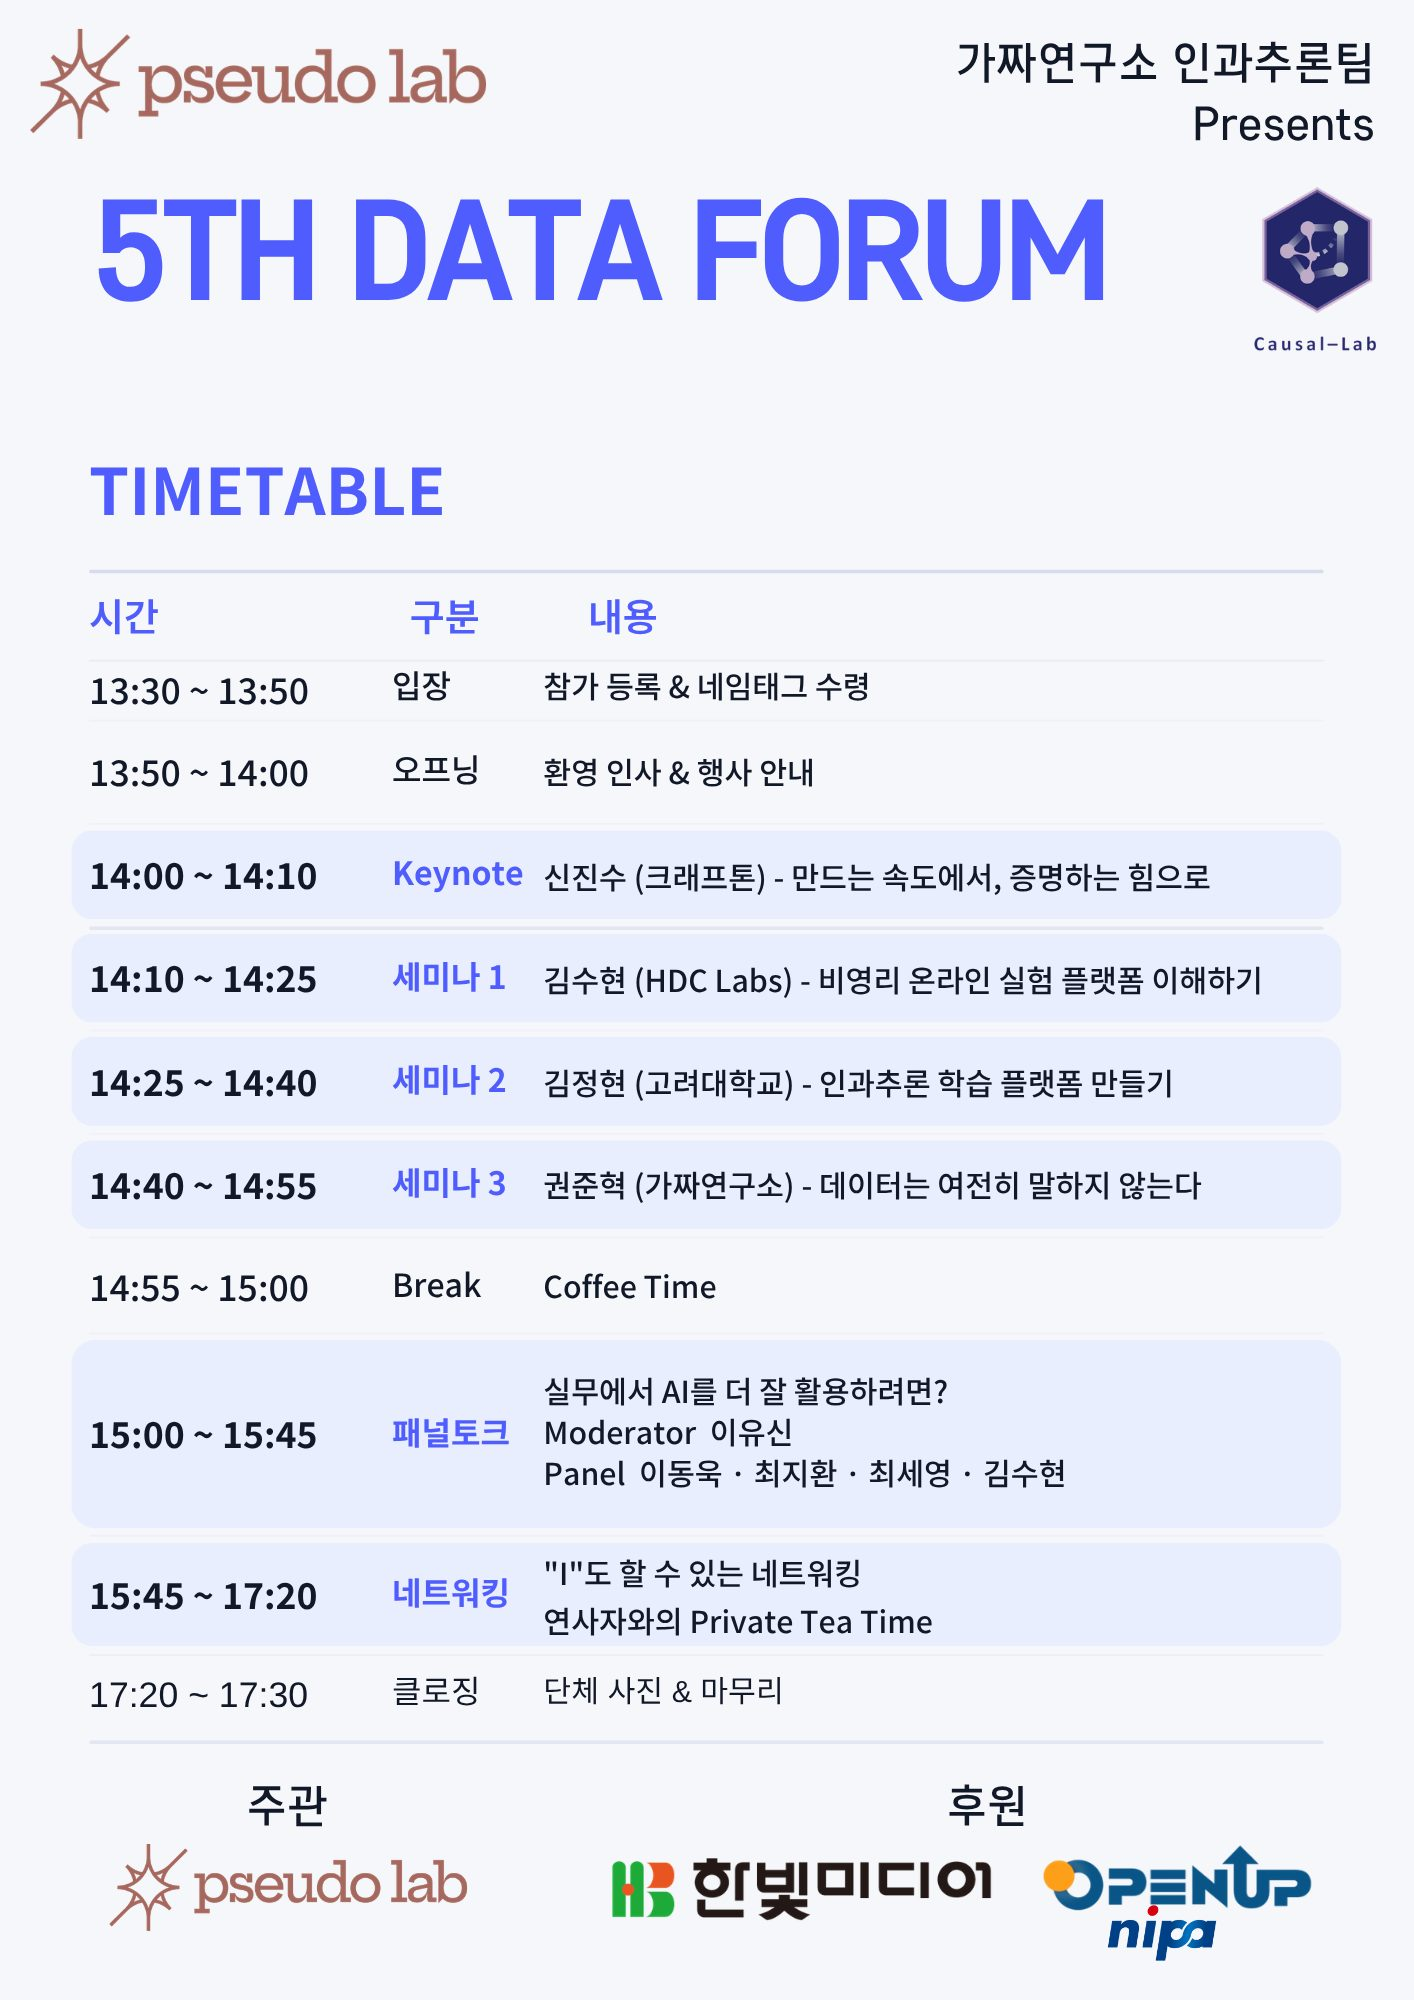
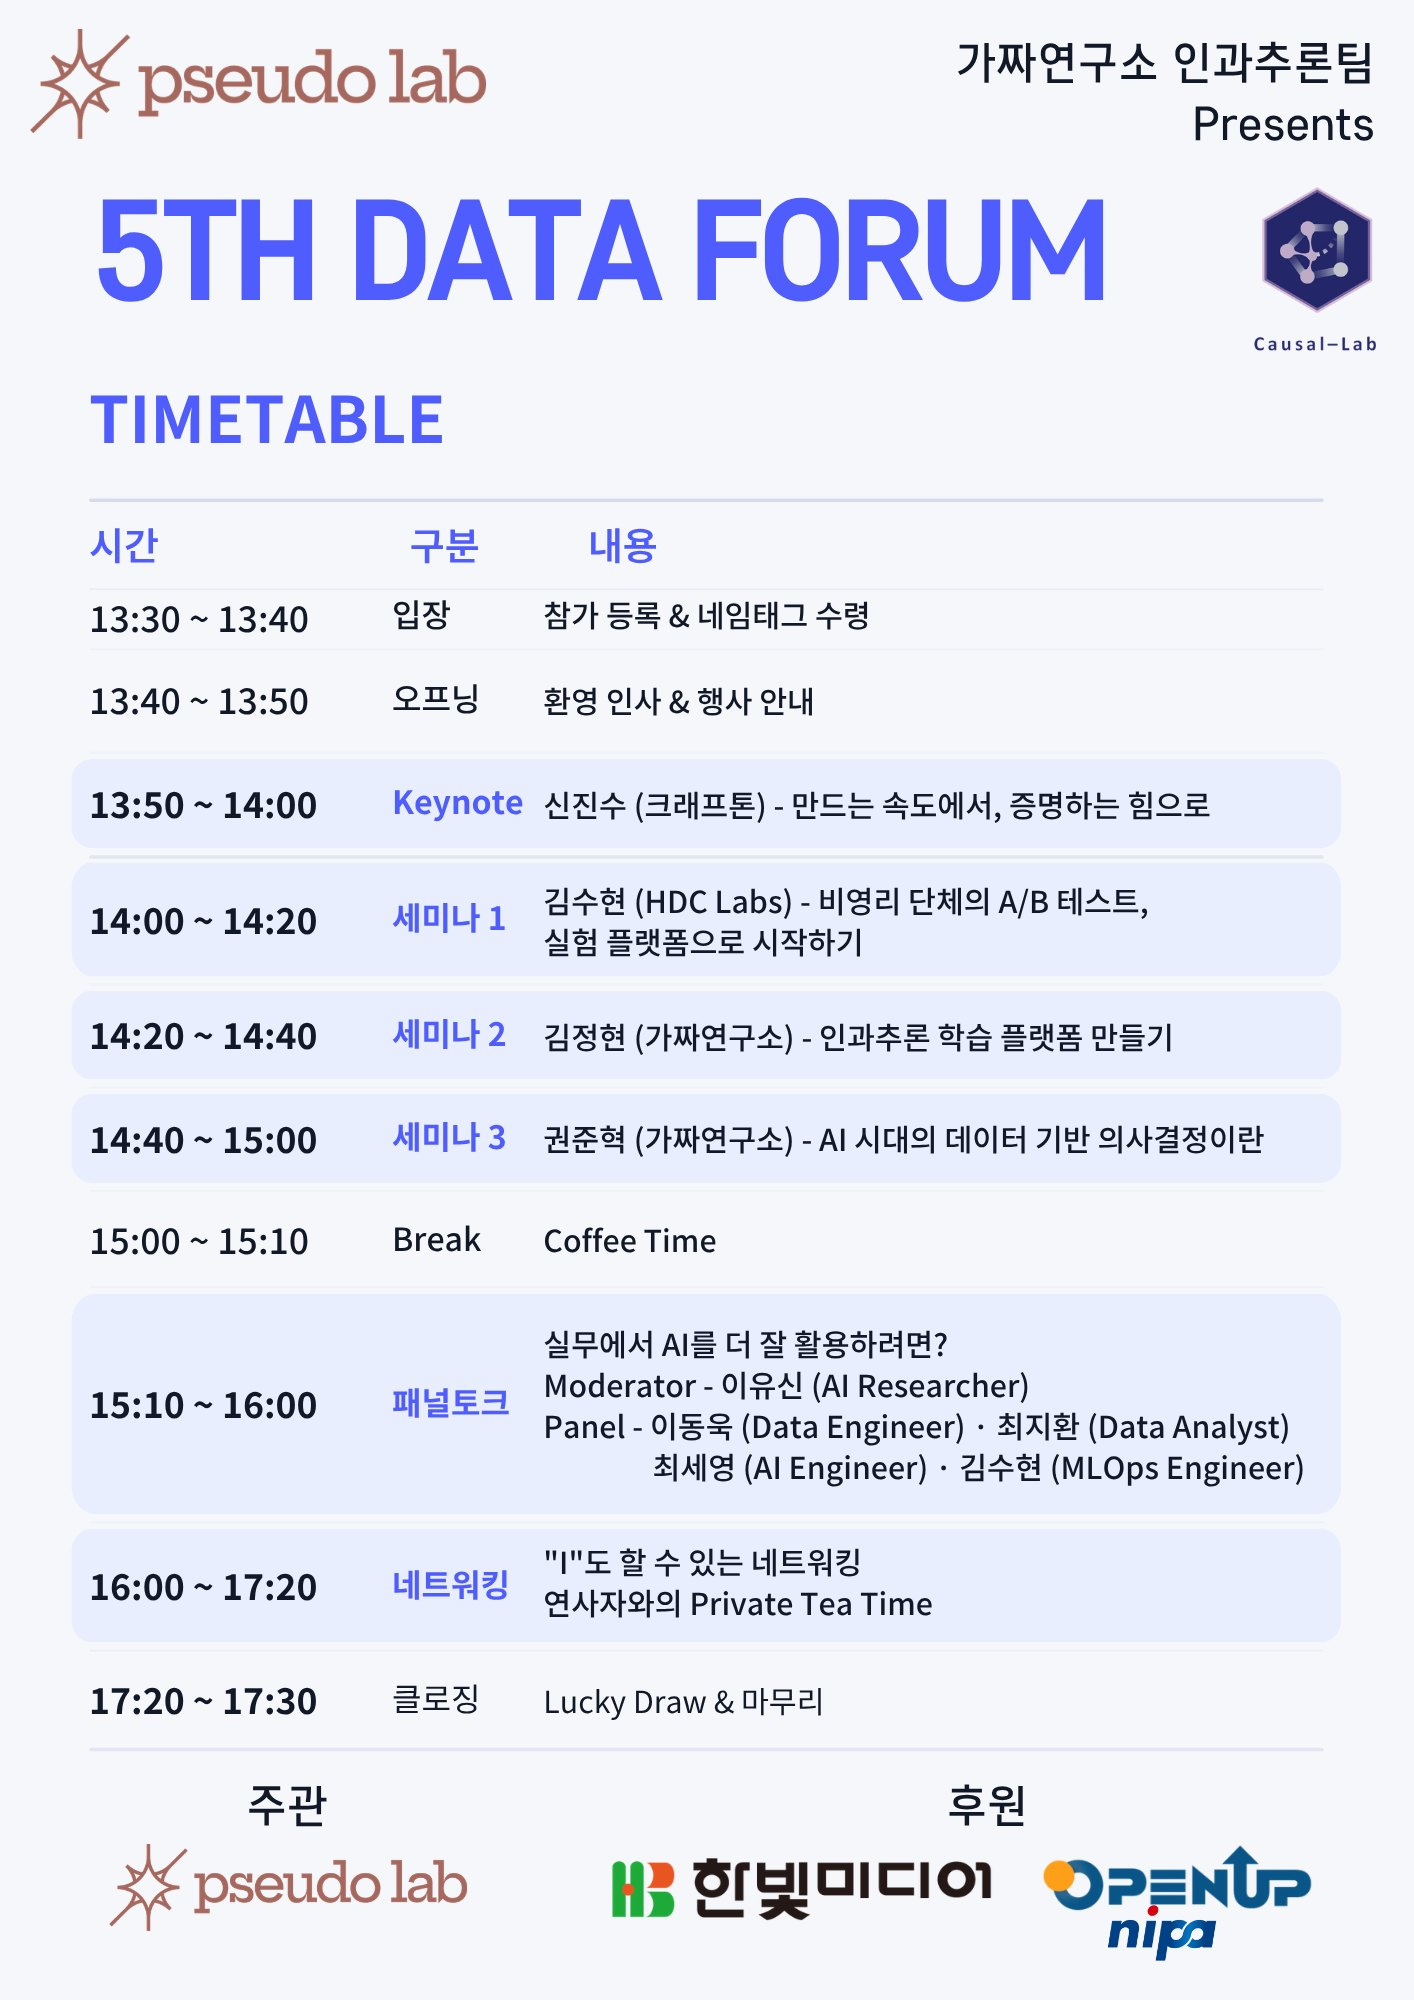
Update the 5th Data Forum details and show the poster and timetable in a viewer
Sign-up now runs 10/31-11/15, the address and timetable follow the final
posters, and both poster images are replaced.

The card shows the poster at 300px on desktop and full width on phones
(it was hidden there), with a switch to the timetable image. Clicking
either opens it in an in-page viewer with a link to the original file.
The text timetable starts open; reopening it is still counted, opening
by default is not.

diff --git a/assets/js/hub.js b/assets/js/hub.js
@@ -1149,10 +1149,17 @@
       next.signupStart ? ["신청", `${md(next.signupStart)} – ${next.signupEnd ? md(next.signupEnd) : ""}${next.capacity ? ` · 선착순 ${next.capacity}명` : ""}`] : null,
       next.audience ? ["대상", esc(next.audience)] : null
     ].filter(Boolean) : [];
-    const tt = next && (next.timetable || []).length ? `<details class="ev-tt" data-event-fold><summary>타임테이블<span>${esc(next.timetable[0].time.split("–")[0])}–${esc(next.timetable[next.timetable.length - 1].time.split("–")[1] || "")}</span></summary>
+    const tt = next && (next.timetable || []).length ? `<details class="ev-tt" data-event-fold open><summary>타임테이블<span>${esc(next.timetable[0].time.split("–")[0])}–${esc(next.timetable[next.timetable.length - 1].time.split("–")[1] || "")}</span></summary>
         <ol>${next.timetable.map((r) => `<li class="${r.talk ? "talk" : ""}"><span class="t">${esc(r.time)}</span><span class="k">${esc(r.kind)}</span><span class="w"><b>${esc(r.title)}</b>${r.who ? `<span>${speakerHTML(r.who)}</span>` : ""}</span></li>`).join("")}</ol>
-        ${next.timetableImage ? `<a class="ev-img-link" href="${esc(next.timetableImage)}" target="_blank" rel="noopener">타임테이블 이미지로 보기<span aria-hidden="true"> ↗</span></a>` : ""}</details>` : "";
-    const nextHTML = next ? `<li class="event next${next.poster ? " has-poster" : ""}">
+        </details>` : "";
+    /* the poster and the timetable image share one viewer: a thumbnail to switch, a full-screen view to read */
+    const imgs = next ? [next.poster && { src: next.poster, label: "포스터", action: "poster" }, next.timetableImage && { src: next.timetableImage, label: "타임테이블", action: "timetable_image" }].filter(Boolean).map((m) => ({ ...m, alt: `${eventTitle(next)} ${m.label}: ${dot(next.date)} ${next.venue || ""}` })) : [];
+    state.evImgs = { imgs, order: next ? next.order : null };
+    const gallery = imgs.length ? `<div class="ev-gallery">
+        ${imgs.length > 1 ? `<div class="ev-gtabs" role="group" aria-label="행사 이미지">${imgs.map((m, i) => `<button type="button" data-ev-pick="${i}" aria-pressed="${i === 0}">${esc(m.label)}</button>`).join("")}</div>` : ""}
+        <button type="button" class="ev-poster" data-ev-zoom="0"><img src="${esc(imgs[0].src)}" alt="${esc(imgs[0].alt)}" width="1414" height="2000" loading="lazy"><span>눌러서 크게 보기</span></button>
+      </div>` : "";
+    const nextHTML = next ? `<li class="event next${imgs.length ? " has-poster" : ""}">
         <div class="ev-main">
           <span class="soon-tag">다음 행사${dd != null && dd >= 0 ? ` · ${dd === 0 ? "오늘" : `D-${dd}`}` : ""}</span>
           <h3>${next.link ? `<a href="${esc(next.link)}" target="_blank" rel="noopener" data-event="click_event" data-event-params='${esc(JSON.stringify({ event_order: next.order, action: su.action || "event_page", placement: "title" }))}'>${esc(eventTitle(next))}</a>` : esc(eventTitle(next))}</h3>
@@ -1160,10 +1167,10 @@
           <dl class="ev-facts">${facts.map(([k, v]) => `<div><dt>${k}</dt><dd>${v}</dd></div>`).join("")}</dl>
           ${next.code ? `<div class="ev-code"><p><b>${esc(next.code.label)}</b></p><ol>${next.code.steps.map((x) => `<li>${esc(x)}</li>`).join("")}</ol></div>` : ""}
           <p class="ev-state ${su.state}">${esc({ soon: `신청은 ${next.signupStart ? md(next.signupStart) : ""}에 열립니다. 지금은 행사 페이지에서 내용을 볼 수 있습니다.`, open: `지금 신청을 받고 있습니다${next.capacity ? `. 선착순 ${next.capacity}명이라 일찍 마감될 수 있습니다` : ""}.`, closed: "신청이 마감되었습니다.", none: "신청 링크는 곧 열립니다." }[su.state])}</p>
-          <div class="ev-acts">${go("button")}${next.poster ? `<a class="btn ghost sm ev-poster-btn" href="${esc(next.poster)}" target="_blank" rel="noopener" data-event="click_event" data-event-params='${esc(JSON.stringify({ event_order: next.order, action: "poster", placement: "card" }))}'>포스터 보기</a>` : ""}</div>
+          <div class="ev-acts">${go("button")}</div>
           ${next.host || (next.sponsors || []).length ? `<p class="ev-org">${next.host ? `주관 ${esc(next.host)}` : ""}${(next.sponsors || []).length ? ` · 후원 ${next.sponsors.map(esc).join(", ")}` : ""}</p>` : ""}
         </div>
-        ${next.poster ? `<a class="ev-poster" href="${esc(next.poster)}" target="_blank" rel="noopener" data-event="click_event" data-event-params='${esc(JSON.stringify({ event_order: next.order, action: "poster", placement: "thumb" }))}'><img src="${esc(next.poster)}" alt="${esc(`${eventTitle(next)} 포스터: ${dot(next.date)} ${next.venue || ""}`)}" width="1414" height="2000" loading="lazy"><span>포스터 크게 보기</span></a>` : ""}
+        ${gallery}
         ${tt}
       </li>` : "";
     const pastHTML = past.map((e) => `<li class="event past">
@@ -1173,9 +1180,42 @@
       </li>`).join("");
     $("#event-list").innerHTML = nextHTML + (past.length ? `<li class="event-past"><p class="ev-sum">지난 Data Forum ${past.length}회 · 참가 ${fmt(total)}명</p><ol>${pastHTML}</ol></li>` : "");
     const fold = $("#event-list [data-event-fold]");
-    if (fold) fold.addEventListener("toggle", () => { if (fold.open) track("click_event", { event_order: next.order, action: "timetable", placement: "card" }); });
+    /* the timetable starts open, so only a person reopening it counts */
+    if (fold) fold.querySelector("summary").addEventListener("click", () => { if (!fold.open) track("click_event", { event_order: next.order, action: "timetable", placement: "card" }); });
   }
 
+
+  function evPick(i) {
+    const m = state.evImgs && state.evImgs.imgs[i];
+    if (!m) return;
+    document.querySelectorAll("#event-list [data-ev-pick]").forEach((b) => b.setAttribute("aria-pressed", String(Number(b.dataset.evPick) === i)));
+    const t = $("#event-list .ev-poster");
+    if (t) { t.dataset.evZoom = String(i); const im = t.querySelector("img"); im.src = m.src; im.alt = m.alt; }
+  }
+  function evZoom(i, placement) {
+    const g = state.evImgs;
+    if (!g || !g.imgs[i]) return;
+    let d = $("#img-dialog");
+    if (!d) {
+      d = document.createElement("dialog");
+      d.id = "img-dialog"; d.className = "lightbox"; d.setAttribute("aria-labelledby", "img-dialog-title");
+      d.innerHTML = `<div class="lb-head"><h2 id="img-dialog-title"></h2><div class="lb-tabs" role="group" aria-label="행사 이미지"></div><a class="lb-raw" target="_blank" rel="noopener">원본 열기<span aria-hidden="true"> ↗</span></a><button type="button" class="sh-close" aria-label="닫기" data-lb-close>${icons.close}</button></div><div class="lb-body"><img alt=""></div>`;
+      document.body.appendChild(d);
+      d.addEventListener("click", (e) => {
+        if (e.target === d || e.target.closest("[data-lb-close]")) { d.close(); return; }
+        const b = e.target.closest("[data-lb-pick]");
+        if (b) evZoom(Number(b.dataset.lbPick), "lightbox");
+      });
+    }
+    const m = g.imgs[i];
+    d.querySelector("h2").textContent = m.label;
+    d.querySelector(".lb-tabs").innerHTML = g.imgs.length > 1 ? g.imgs.map((x, k) => `<button type="button" data-lb-pick="${k}" aria-pressed="${k === i}">${esc(x.label)}</button>`).join("") : "";
+    d.querySelector(".lb-raw").href = m.src;
+    const im = d.querySelector(".lb-body img"); im.src = m.src; im.alt = m.alt;
+    d.querySelector(".lb-body").scrollTop = 0;
+    if (!d.open) d.showModal();
+    track("click_event", { event_order: g.order, action: m.action, placement });
+  }
 
   /* ---------- metro map ---------- */
   function svg(tag, attrs = {}, parent) {
@@ -1688,6 +1728,10 @@
       if (ja) track("click_join", { target: joinTarget(ja.getAttribute("href") || ""), source: ja.closest("#join") ? "join_section" : "footer" });
       const sa = e.target.closest("#station-body .links a");
       if (sa && state.openRepo) track("click_outbound", { repo: state.openRepo.repo, kind: state.openRepo.kind === "paid" ? "paid" : /github\.com/.test(sa.href) ? "github" : "site" });
+      const ep = e.target.closest("[data-ev-pick]");
+      if (ep) { evPick(Number(ep.dataset.evPick)); return; }
+      const ez = e.target.closest("[data-ev-zoom]");
+      if (ez) { evZoom(Number(ez.dataset.evZoom), "thumb"); return; }
       const dpick = e.target.closest("[data-daily]");
       if (dpick) { answerDaily(dpick.dataset.daily); return; }
       const to = e.target.closest("[data-test-open]");

diff --git a/assets/css/hub.css b/assets/css/hub.css
@@ -1913,7 +1913,7 @@ button.ls-t:focus-visible, .ls-ck:focus-visible, .lr-also a:focus-visible, .lr-a
 .lt-review a { width: fit-content; font-weight: 700; color: var(--accent); }
 
 /* the next Data Forum: what, when, where, how to sign up, and the poster */
-.events .event.next { grid-column: 1 / -1; display: grid; grid-template-columns: minmax(0, 1fr) 240px; grid-template-areas: "main poster" "tt tt"; gap: 18px 36px; padding: 28px 30px; align-items: start; }
+.events .event.next { grid-column: 1 / -1; display: grid; grid-template-columns: minmax(0, 1fr) 300px; grid-template-areas: "main poster" "tt tt"; gap: 18px 36px; padding: 28px 30px; align-items: start; }
 .events .event.next:not(.has-poster) { grid-template-columns: minmax(0, 1fr); grid-template-areas: "main" "tt"; }
 .events .event-past { grid-column: 1 / -1; }
 .ev-main { grid-area: main; display: flex; flex-direction: column; gap: 10px; min-width: 0; }
@@ -1937,10 +1937,26 @@ button.ls-t:focus-visible, .ls-ck:focus-visible, .lr-also a:focus-visible, .lr-a
 .ev-acts { display: flex; flex-wrap: wrap; gap: 8px; align-items: center; }
 .event.next .ev-acts .btn.sm { margin-top: 0; }
 .ev-org { font-size: 13.5px; color: var(--muted); }
-.ev-poster { grid-area: poster; display: grid; gap: 6px; text-align: center; font-size: 13px; font-weight: 700; color: var(--accent); text-decoration: none; }
-.ev-poster img { width: 100%; height: auto; border-radius: 14px; border: 1px solid var(--rule); }
+.ev-gallery { grid-area: poster; display: grid; gap: 10px; align-content: start; }
+.ev-gtabs { display: flex; gap: 6px; }
+.ev-gtabs button, .lb-tabs button { font: inherit; font-size: 13.5px; font-weight: 700; padding: 6px 12px; border-radius: 999px; border: 1px solid var(--rule); background: var(--surface); color: var(--ink); cursor: pointer; }
+.ev-gtabs button[aria-pressed="true"], .lb-tabs button[aria-pressed="true"] { background: var(--ink); color: var(--surface); border-color: var(--ink); }
+.ev-gtabs button:focus-visible, .lb-tabs button:focus-visible { outline: 3px solid var(--focus); outline-offset: 2px; }
+.ev-poster { display: grid; gap: 6px; padding: 0; border: 0; background: none; font: inherit; text-align: center; font-size: 13px; font-weight: 700; color: var(--accent); cursor: zoom-in; }
+.ev-poster img { width: 100%; height: auto; border-radius: 14px; border: 1px solid var(--rule); background: #f6f7fb; }
 .ev-poster:hover span { text-decoration: underline; }
 .ev-poster:focus-visible { outline: 3px solid var(--focus); outline-offset: 3px; border-radius: 14px; }
+dialog.lightbox { border: 0; padding: 0; margin: auto; width: min(760px, calc(100vw - 24px)); max-height: calc(100dvh - 24px); border-radius: 18px; background: var(--surface); color: var(--ink); box-shadow: 0 24px 64px rgba(0, 0, 0, .32); overflow: hidden; display: none; }
+dialog.lightbox[open] { display: flex; flex-direction: column; }
+dialog.lightbox::backdrop { background: rgba(10, 14, 20, .7); }
+.lb-head { display: flex; align-items: center; gap: 10px; flex-wrap: wrap; padding: 12px 14px; border-bottom: 1px solid var(--rule); }
+.lb-head h2 { font-size: 16px; margin: 0; }
+.lb-tabs { display: flex; gap: 6px; }
+.lb-raw { margin-left: auto; font-size: 13.5px; font-weight: 700; color: var(--accent); }
+.lb-head .sh-close { margin-left: 4px; }
+.lb-body { overflow: auto; padding: 12px; background: var(--surface-2); }
+.lb-body img { display: block; width: 100%; height: auto; border-radius: 8px; }
+@media (max-width: 520px) { .lb-head { flex-wrap: nowrap; } .lb-head h2 { position: absolute; width: 1px; height: 1px; overflow: hidden; clip: rect(0 0 0 0); white-space: nowrap; } .lb-body { padding: 8px; } }
 .ev-tt { grid-area: tt; border-top: 1px solid var(--rule); padding-top: 6px; }
 .ev-tt summary { cursor: pointer; display: flex; align-items: baseline; gap: 10px; padding: 8px 2px; font-size: 16px; font-weight: 800; width: fit-content; }
 .ev-tt summary span { font-size: 13.5px; font-weight: 600; color: var(--muted); }
@@ -1952,10 +1968,10 @@ button.ls-t:focus-visible, .ls-ck:focus-visible, .lr-also a:focus-visible, .lr-a
 .ev-tt .k { font-weight: 800; color: var(--accent); }
 .ev-tt .w { display: flex; flex-direction: column; }
 .ev-tt .w span { font-size: 13.5px; color: var(--muted); }
-.ev-img-link { display: inline-block; margin-top: 10px; font-size: 13.5px; font-weight: 700; color: var(--accent); }
 @media (max-width: 860px) {
-  .events .event.next { grid-template-columns: minmax(0, 1fr); grid-template-areas: "main" "tt"; padding: 22px 18px; }
-  .ev-poster { display: none; }
+  .events .event.next { grid-template-columns: minmax(0, 1fr); grid-template-areas: "main" "poster" "tt"; padding: 22px 18px; }
+  .events .event.next:not(.has-poster) { grid-template-areas: "main" "tt"; }
+  .ev-gallery { width: min(100%, 420px); justify-self: center; }
   .ev-tt li { grid-template-columns: 1fr; gap: 2px; }
   .ev-tt .t { font-size: 13px; }
 }
@@ -2047,7 +2063,6 @@ dialog.sheet .toast:not(.show) { transition: opacity .25s ease, visibility 0s li
   .ev-tt li { grid-template-columns: auto minmax(0, 1fr); gap: 2px 10px; }
   .ev-tt .w { grid-column: 1 / -1; }
 }
-@media (min-width: 861px) { .event.next.has-poster .ev-poster-btn { display: none; } }
 
 /* ---------- curriculum: a rail of five levels and one level in full ---------- */
 .lt-card { grid-template-columns: minmax(0, 1fr) auto; padding: 22px 28px; }
